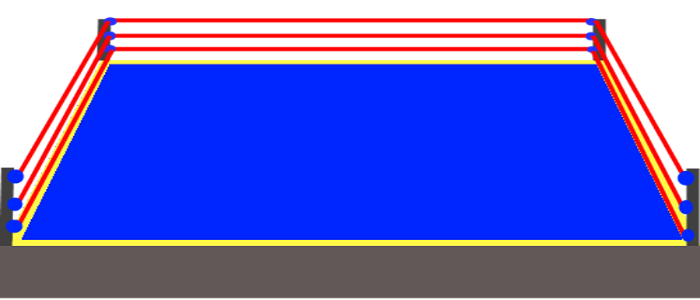
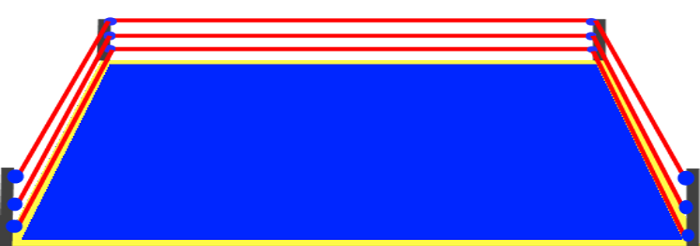
mise en page

diff --git a/style.css b/style.css
@@ -11,10 +11,13 @@
          margin: auto;
      }
      
-     body>h1 {
+     header>h1 {
          font-family: 'VisitorTT1BRK';
-         text-shadow: 3px 3px 1px white;
-         color: red;
+         background: -webkit-linear-gradient(red, yellow);
+         -webkit-text-stroke-width: 2px;
+         -webkit-text-stroke-color: lightyellow;
+         -webkit-background-clip: text;
+         -webkit-text-fill-color: transparent;
          padding-bottom: 25px;
          text-align: center;
          font-size: 4em;
@@ -26,6 +29,15 @@
          font-family: 'Press Start 2P', cursive;
          animation: eclair 2s infinite;
          font-size: 1em;
+     }
+     
+     header {
+         padding-top: 10px;
+         display: flex;
+         justify-content: space-between;
+         align-items: center;
+         width: 90%;
+         margin: auto;
      }
      
      h3 {
@@ -52,32 +64,16 @@
          display: none;
      }
      
-     .compteurpoints {
-         width: 15%;
-         height: 50px;
-         background: white;
-         border-radius: 10px;
-         display: flex;
-         justify-content: space-around;
-         align-items: center;
-         margin: auto;
-     }
-     
      .compteurJ1,
      .compteurJ2 {
          text-align: center;
          font-family: 'Press Start 2P', cursive;
+         width: 15%;
      }
      
-     .pointsJ1 {
-         width: 45%;
-         background: lightgray;
-         border-radius: 5px;
-         height: 40px;
-     }
-     
+     .pointsJ1,
      .pointsJ2 {
-         width: 45%;
+         width: 15%;
          background: lightgray;
          border-radius: 5px;
          height: 40px;
@@ -89,7 +85,7 @@
      
      .ring {
          width: 700px;
-         height: 290px;
+         height: 247px;
          background: url(boxingring.png) no-repeat center;
          margin: auto;
          display: flex;
@@ -221,7 +217,7 @@
          background-image: linear-gradient(yellow, white);
          font-family: 'Geo', sans-serif;
          width: 500px;
-         height: 370px;
+         height: 327px;
          padding-top: 20px;
          border-radius: 10px 10px 0 0;
      }
@@ -242,6 +238,12 @@
      .compteurvies2 {
          color: red;
          font-size: 3em;
+         margin: 0;
+     }
+     
+     .compteurener1,
+     .compteurener2 {
+         margin: 0;
      }
      
      .tremble {
@@ -261,7 +263,7 @@
      /*--------------------------partie questions*/
      
      .questions {
-         height: 140px;
+         height: 100px;
          width: 90%;
          background: darkgrey;
          margin: auto;
@@ -271,23 +273,24 @@
      }
      
      .question {
-         height: 80px;
+         height: 50px;
          width: 40%;
          border-radius: 10px;
          background: lightgray;
          margin-left: 200px;
          font-family: 'Press Start 2P', cursive;
          text-align: center;
-         line-height: 50px;
      }
      
      .inputtext {
-         height: 50px;
+         height: 40px;
          width: 10%;
+         font-family: 'Press Start 2P', cursive;
+         font-size: 1.5em;
      }
      
      .inputsubmit {
-         height: 80px;
+         height: 50px;
          width: 10%;
          font-family: 'Press Start 2P', cursive;
          margin-right: 200px;

diff --git a/index.html b/index.html
@@ -12,23 +12,19 @@
 </head>
 
 <body>
-
-    <h1>Maths Boxing</h1>
-
-    <h2>Points</h2>
-    <div class="compteur">
-        <div class="compteurpoints">
-            <div class="pointsJ1">
-                <p class="compteurJ1">0</p>
-            </div>
-            <div class="pointsJ2">
-                <p class="compteurJ2">0</p>
-            </div>
+    <header>
+        <div class="pointsJ1">
+            <p class="compteurJ1">0</p>
         </div>
-    </div>
+        <h1>Maths Boxing</h1>
+        <div class="pointsJ2">
+            <p class="compteurJ2">0</p>
+        </div>
+    </header>
 
     <div class="grandezone">
         <div class="compteur1">
+            <img src="portrait2.png" alt="portrait joueur 2" />
             <h1>JOUEUR 1</h1>
             <div class="energie1">
                 <h3>ENERGIE</h3>
@@ -84,6 +80,7 @@
             </div>
         </div>
         <div class="compteur2">
+            <img src="portrait1.png" alt="portrait joueur 1" />
             <h1>
                 JOUEUR 2
             </h1>
